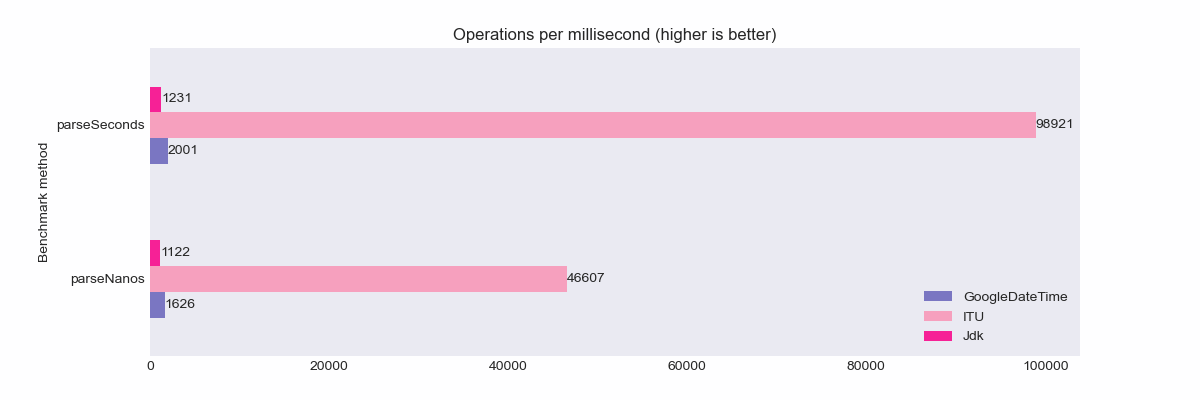
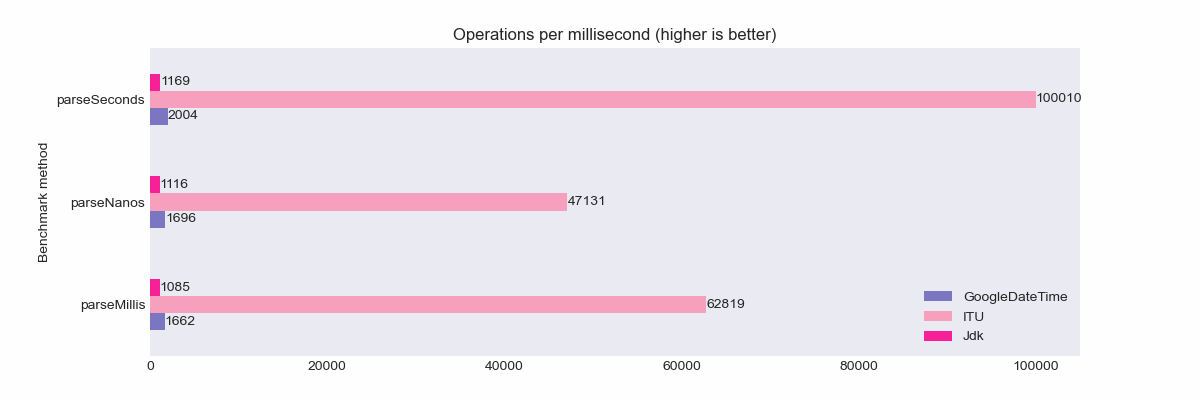
Update results and link to new repo

diff --git a/README.md b/README.md
@@ -14,8 +14,8 @@ W3C [Date and Time Formats](https://www.w3.org/TR/NOTE-datetime) in Java.
 
 ## Features
 * Very easy to use
-* No external dependencies, minimal JAR size
-* Apache licensed, can be used in any project, even commercial
+* No external dependencies, minimal JAR size (16.4KB)
+* Apache 2 licensed, can be used in any project, even commercial
 * Handling of leap-seconds
 * Very high performance
 
@@ -39,20 +39,14 @@ Here it becomes even more visible how the parser scales with the length of the s
 <img src="doc/parse_raw.png" alt="Performance of raw parsing">
 
 ### Environment
-Tests performed on a Lenovo P1 G6 laptop:
+The above results were captured on a Lenovo P1 G6 laptop:
 * Intel(R) Core(TM) i9-13900H
 * Ubuntu 23.10
 * OpenJDK version 17.0.9
 
 ### Run tests yourself
-```shell
-mvn jmh:benchmark
-```
 
-To plot the result and create the resulting image, you can run `plot.py`, for example:
-```
-python3 plot.py -i target/itu_performance.json
-```
+The benchmarks are available in https://github.com/ethlo/date-time-wars.
 
 ## Example usage
 
@@ -63,6 +57,8 @@ Add dependency
   <groupId>com.ethlo.time</groupId>
   <artifactId>itu</artifactId>
   <version>1.7.5</version>
+  <!-- If you want to use minified JAR -->  
+  <classifier>small</classifier>
 </dependency>
 ```
 
